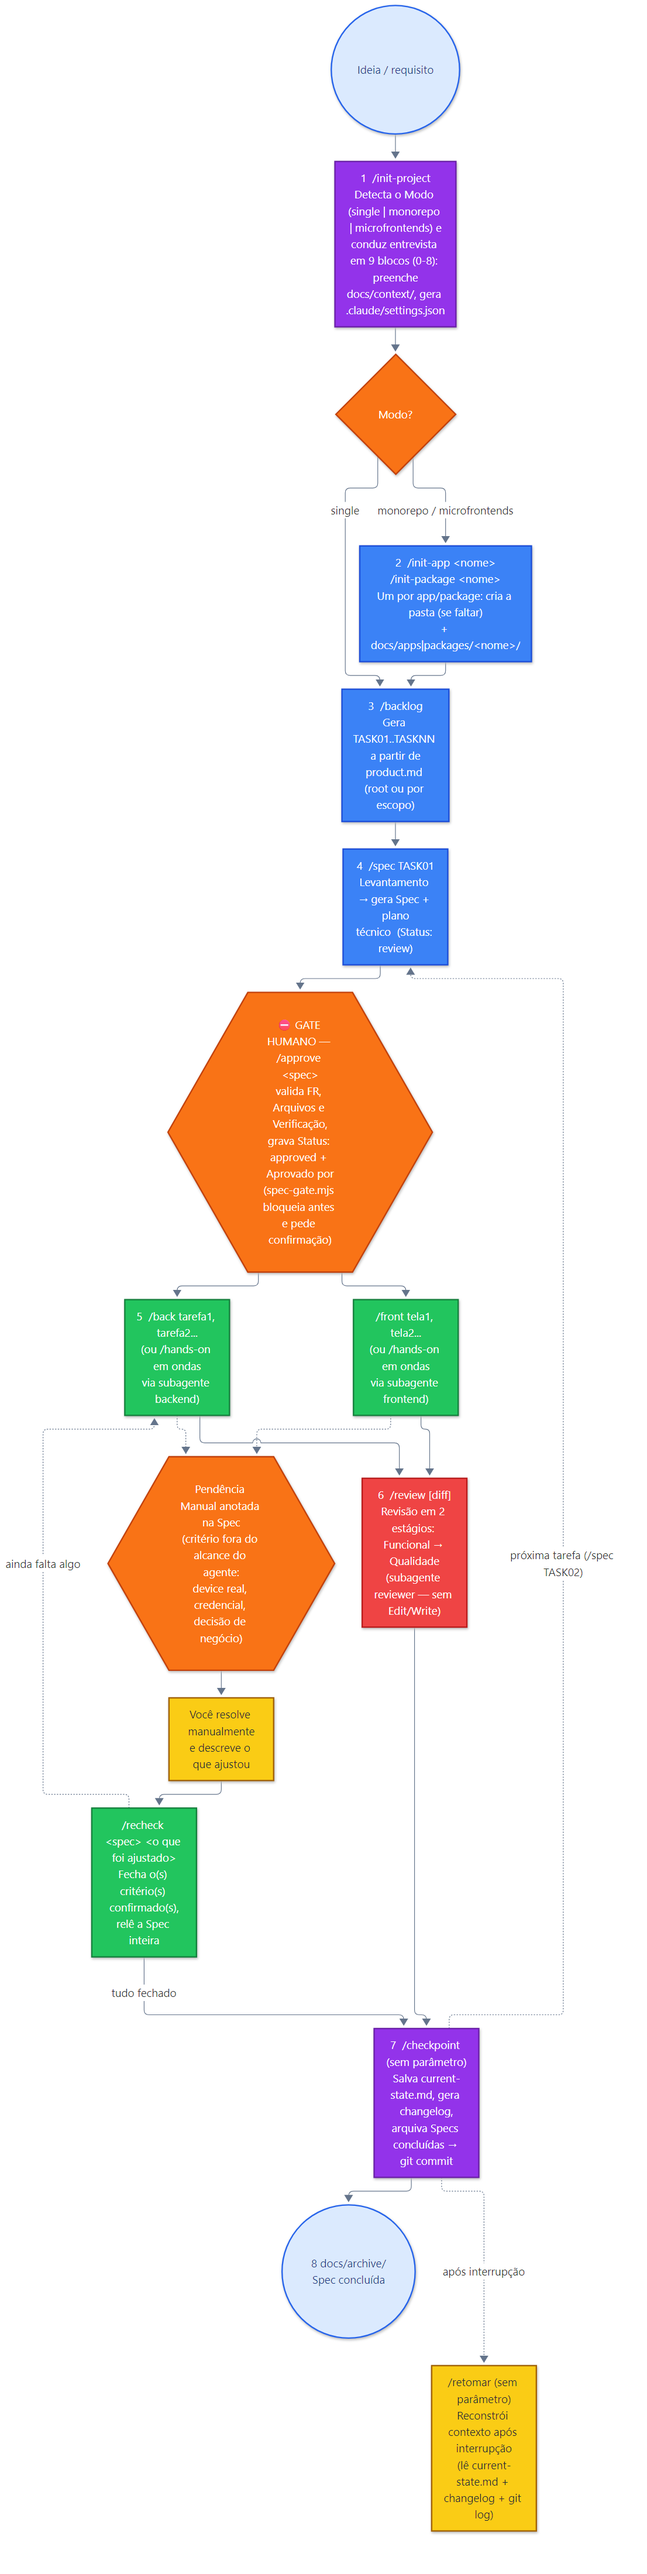
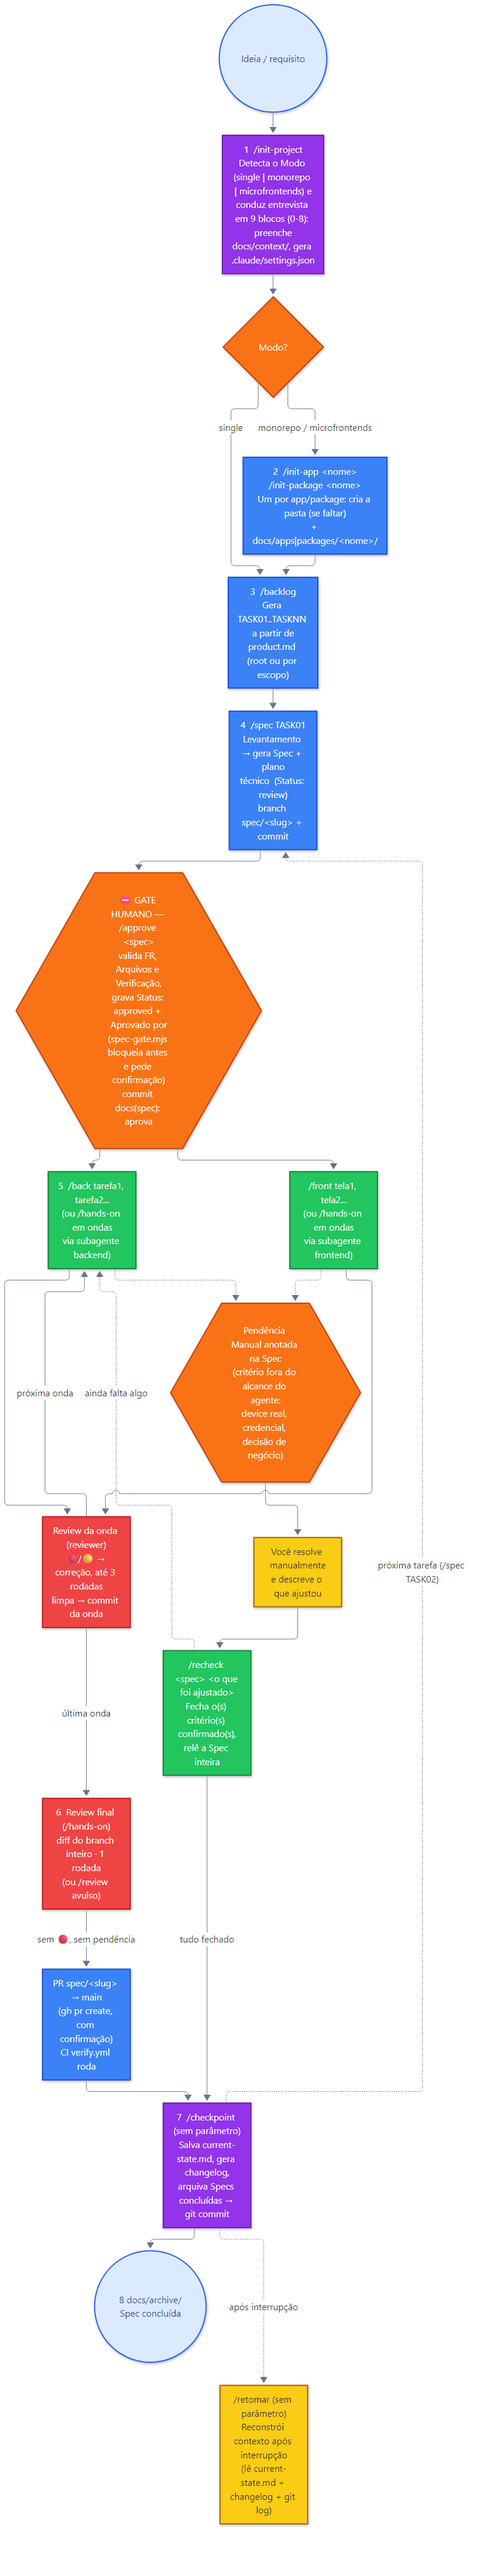
docs(readme): document branch-per-Spec, wave review, PR and CI

diff --git a/README.md b/README.md
@@ -206,28 +206,42 @@ Ideia/requisito
                      (uma vez por app/package)                    │
                                    └──────────────────────────────┘
                                                   ↓
-[3] /spec TASK01 (gera spec + plano de tarefas técnicas)
+[3] /spec TASK01 (gera spec + plano de tarefas técnicas, cria branch spec/<slug> e commita)
       ↓
-      ⛔ GATE: /approve <spec> — valida e grava Status: approved + Aprovado por (mecânico: .claude/hooks/spec-gate.mjs)
+      ⛔ GATE: /approve <spec> — valida e grava Status: approved + Aprovado por + commit (mecânico: .claude/hooks/spec-gate.mjs)
       ↓
-[4] /back tarefa1, tarefa2, tarefa3   ou   /hands-on docs/specs/....md (ondas paralelas)
+[4] /back tarefa1, tarefa2, tarefa3   ou   /hands-on docs/specs/....md (ondas paralelas, review + commit por onda)
       ↓
 [5] /front tela1, tela2
       ↓
-[6] /review [diff]
+[6] /review [diff] — review final (no /hands-on) + PR
       ↓
-[7] /checkpoint (sem parâmetro — grava resumo da sessão) → git commit
+[7] /checkpoint (sem parâmetro — grava resumo da sessão, arquiva Specs done) → git commit
       ↓
 [8] Specs concluídas migram para docs/archive/ (feito por /checkpoint)
 ```
 
-**Diagrama do fluxo** (sequência de comandos, ramo single/monorepo, gate `/approve`, paralelismo backend/frontend e o ramo de Pendência Manual → `/recheck`):
+**Diagrama do fluxo** (sequência de comandos, branch `spec/<slug>`, ramo single/monorepo, gate `/approve`, paralelismo backend/frontend, review por onda + review final, PR e o ramo de Pendência Manual → `/recheck`):
 
 ![Fluxo de entrega do Scaffold IA](meta/assets/fluxo-workflow.png)
 
 **Single vs. monorepo/microfrontends:** em `single`, `/init-project` já cobre a stack inteira e o próximo passo é direto `/backlog`. Em `monorepo`/`microfrontends`, `/init-project` cobre só o que é compartilhado (CI/CD, hospedagem, banco); cada app/package precisa passar por `/init-app <nome>` ou `/init-package <nome>` (que criam a pasta, se ainda não existir, e os docs locais em `docs/apps|packages/<nome>/`) antes de gerar o backlog. Os dois caminhos convergem no mesmo `/spec` em diante — `/back`, `/front`, `/review`, `/checkpoint` e `/retomar` funcionam igual, com o escopo inferido do contexto quando não informado (`.claude/workflows/context-resolution.md`).
 
 **Por que o gate importa:** Sem a aprovação, o agente assume escopo e você descobre tarde. A spec com as tarefas técnicas obriga alinhamento **antes** de escrever código — e agora um hook bloqueia mecanicamente a edição de código enquanto a Spec ativa não estiver aprovada. A aprovação em si é feita pelo `/approve` (só o humano invoca — o modelo não dispara sozinho); qualquer tentativa de aprovar a Spec por uma ferramenta de edição pede confirmação humana no prompt.
+
+### Git, review e CI
+
+Cada Spec vive no branch `spec/<slug>`, do `/spec` ao PR. Cada onda do
+`/hands-on` faz stage explícito (nunca `git add -A`) e um commit próprio,
+precedido pela review da onda (subagente `reviewer`, até 3 rodadas de
+correção); ao fechar a Spec roda uma review final sobre o diff do branch
+inteiro (1 rodada). Sem achados 🔴 e sem Pendência Manual, o `/hands-on`
+oferece abrir o PR `spec/<slug>` → branch padrão (`gh pr create`, sempre com
+confirmação humana). Mudança normativa numa Spec já `approved` entra em
+`## Emendas` — o `spec-gate.mjs` pede confirmação. O CI
+(`.github/workflows/verify.yml`) é instalado pelo `/init-project`. Regras
+completas: [`.claude/workflows/git-flow.md`](.claude/workflows/git-flow.md) e
+[`docs/specs/README.md`](docs/specs/README.md).
 
 ### Playbook (tokens × qualidade)
 
@@ -247,10 +261,10 @@ Ideia/requisito
 | `/init-app` | `/init-app web` | (monorepo) Cria `apps/<nome>`, docs locais e questionário de configuração |
 | `/init-package` | `/init-package ui` | (monorepo) Cria `packages/<nome>`, docs locais e questionário de configuração |
 | `/backlog` | `/backlog` | Gera TASK01..TASKNN do product.md |
-| `/spec` | `/spec TASK01` | Levantamento, gera spec + plano técnico (Status: review) |
+| `/spec` | `/spec TASK01` | Levantamento, gera spec + plano técnico (Status: review), cria branch spec/<slug> |
 | `/approve` | `/approve docs/specs/….md` | (só humano) Valida a Spec e aprova: Status review → approved |
 | `/groom` | `/groom nova funcionalidade` | Refina uma nova feature isolada adicionando-a ao backlog |
-| `/hands-on` | `/hands-on docs/specs/….md` | Executa o plano da Spec em ondas (paralelo), via subagentes |
+| `/hands-on` | `/hands-on docs/specs/….md` | Executa o plano da Spec em ondas (paralelo), via subagentes, com review por onda, commit e PR |
 | `/back` | `/back implementar auth com JWT` | Agente backend, inline |
 | `/front` | `/front criar modal de login` | Agente frontend, inline |
 | `/review` | `/review [cole diff aqui]` | Revisão 2 estágios: Funcional → Qualidade |

diff --git a/.claude/workflows/feature-delivery.md b/.claude/workflows/feature-delivery.md
@@ -19,7 +19,12 @@ Requirement → [Fase 0: Spec & Plan] → ⛔ GATE: aprovação humana → Backe
 2. Conduzir levantamento com o solicitante (uma pergunta por vez), se necessário
 3. Definir regras de negócio, contratos de API e quebra de tarefas técnicas seguindo `.claude/templates/spec-template.md`
 4. Salvar o documento consolidado em `docs/specs/YYYY-MM-DD-<nome-do-topico>.md` com status `review`
-5. **Parar e aguardar** — informar o caminho do arquivo ao solicitante
+5. Criar/trocar para o branch `spec/<slug>` e commitar a Spec — regras de
+   branch, stage e commit em `.claude/workflows/git-flow.md`
+6. **Parar e aguardar** — informar o caminho do arquivo ao solicitante
+
+Ciclo de `**Status:**` da Spec (`review → approved → done`) e quando ela migra
+para `docs/archive/`: [`docs/specs/README.md`](../../docs/specs/README.md).
 
 **⛔ GATE — Aprovação Humana Obrigatória**
 
@@ -58,6 +63,10 @@ O solicitante deve:
 
 **Gate**: All unit + integration tests pass. `npm run test` is green.
 
+Via `/hands-on`, cada onda passa pela review do `reviewer` (até 3 rodadas de
+correção) e só então é commitada — `<tipo>(<escopo>): <slug> — onda N` — ver
+`.claude/workflows/git-flow.md`.
+
 ---
 
 ## Phase 2: Frontend Implementation (Frontend Agent)
@@ -82,6 +91,10 @@ O solicitante deve:
 
 **Gate**: All component tests pass. Feature works against MSW mocks.
 
+Via `/hands-on`, cada onda passa pela review do `reviewer` (até 3 rodadas de
+correção) e só então é commitada — `<tipo>(<escopo>): <slug> — onda N` — ver
+`.claude/workflows/git-flow.md`.
+
 ---
 
 ## Phase 3: Integration
@@ -97,8 +110,14 @@ O solicitante deve:
 
 ## Phase 4: Review (Reviewer Agent)
 
+Via `/hands-on`, cada onda já passou pela review descrita nas Fases 1/2; esta
+fase é a **review final**, sobre o diff do branch `spec/<slug>` inteiro (1
+rodada) — ver `.claude/workflows/git-flow.md`.
+
 - [ ] Self-review using `.claude/skills/quality/SKILL.md` checklist
-- [ ] Open PR with description: what changed, why, how to test
+- [ ] Open PR (`spec/<slug>` → branch padrão, `gh pr create`, com confirmação
+      humana) — o CI (`.github/workflows/verify.yml`, instalado pelo
+      `/init-project`) roda no PR
 - [ ] Address all BLOCKER and WARNING items
 - [ ] Get approval from at least one other agent or team member
 

diff --git a/.claude/workflows/playbook-tokens-qualidade.md b/.claude/workflows/playbook-tokens-qualidade.md
@@ -54,6 +54,7 @@ git commit
 | Spec unificada (regras + plano) | Brainstorm + design + plan separados sem necessidade |
 | Checkpoint comprimido | Colar sessão inteira no chat “pra lembrar” |
 | `/hands-on` só com ondas reais | Orquestrar 1 tarefa sequencial com subagentes |
+| `--no-review` quando as ondas são triviais e de baixo risco (a review final continua rodando) | Usar `--no-review` em toda Spec, sem avaliar o risco onda a onda |
 
 **Checklist “estou economizando?”**
 
@@ -77,7 +78,7 @@ sequencial quando o paralelismo é arriscado.
 |------|------------|-------------------|
 | Descoberta / ambiguidade | `/spec` — entrevista **uma pergunta por vez** até esgotar as dúvidas, sem pular para a geração | `docs/specs/YYYY-MM-DD-*.md` (`Status: review`) |
 | Gate humano | `/approve` — valida rastreabilidade FR→tarefa, `Arquivos:` e Verificação antes de aprovar | Spec com `Status: approved` |
-| Implementação controlada | `/hands-on --serial` — ignora as ondas e executa tudo em sequência | Spec com checkboxes e evidência de comando |
+| Implementação controlada | `/hands-on --serial` — mantém a review por onda (padrão, até 3 rodadas de correção antes do commit) mas ignora as ondas e executa tudo em sequência | Spec com checkboxes e evidência de comando |
 | Bug difícil | Reproduza antes de mexer; teste de regressão antes do fix | Teste de regressão + fix |
 | Antes de "pronto" | skill `verification` — nenhum `[x]` sem evidência real de comando | Saída real de test/build |
 | Review final | `/review` (Funcional → Qualidade) | Diff + critérios da Spec |

diff --git a/.claude/CLAUDE.md b/.claude/CLAUDE.md
@@ -76,6 +76,7 @@ docs/context/product.md          ← regras de negócio (se não for PLANNER)
 .claude/workflows/release-process.md
 .claude/workflows/context-resolution.md  ← fallback quando um comando não recebe parâmetro
 .claude/workflows/playbook-tokens-qualidade.md  ← modos econômico / rigor / emergência
+.claude/workflows/git-flow.md  ← branch, stage e commit do fluxo
 ```
 
 ---
@@ -99,7 +100,7 @@ app/package. Convenção: `docs/context/conventions.md#documentação-em-monorep
 /checkpoint                 ← grava resumo da sessão no log do projeto (sem parâmetro)
 /spec   [TASKXX | requisito]← gera spec + plano técnico (Status: review)
 /approve [spec]              ← (só humano) valida e aprova a Spec (review → approved)
-/hands-on [caminho-da-spec] ← executa o Plano de Implementação em ondas (agentes em paralelo)
+/hands-on [caminho-da-spec] ← executa o Plano de Implementação em ondas (agentes em paralelo, review por onda, commit, PR)
 /back   [tarefa]            ← agente backend
 /front  [tarefa]            ← agente frontend
 /review [diff ou contexto]  ← revisão em dois estágios

diff --git a/.claude/README.md b/.claude/README.md
@@ -20,7 +20,9 @@ ferramenta nem cópia paralela para outros assistentes.
   skills/                 ← skills de papel, formato padrão .claude/skills/<nome>/SKILL.md
   hooks/                  ← verificação automática (PreToolUse, PostToolUse, Stop)
   workflows/              ← processos de várias fases (carregados sob demanda)
+    git-flow.md            ← branch, stage e commit do fluxo (spec/<slug>, ondas, PR)
   templates/              ← spec-template.md
+    ci/verify.yml          ← template de CI instalado pelo /init-project (Bloco 6d)
 ```
 
 ## Comandos (`commands/`)
@@ -193,6 +195,10 @@ Os papéis existem também como subagentes: `backend`, `frontend`, `reviewer`,
 
 `/hands-on` despacha `backend` e `frontend` por tarefa (Passo 3). Para tarefa
 pequena e avulsa, `/back` e `/front` inline continuam mais baratos.
+
+Cada onda do `/hands-on` passa pelo `reviewer` antes do commit (até 3 rodadas
+de correção); a Spec fecha com uma review final sobre o branch inteiro e a
+oferta de abrir o PR `spec/<slug>` → branch padrão.
 
 Detalhes: [`.claude/agents/README.md`](agents/README.md).
 
